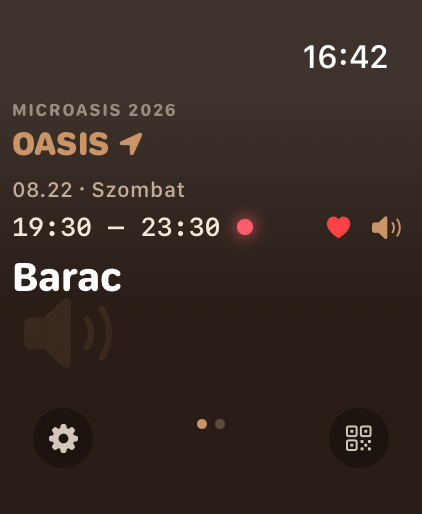
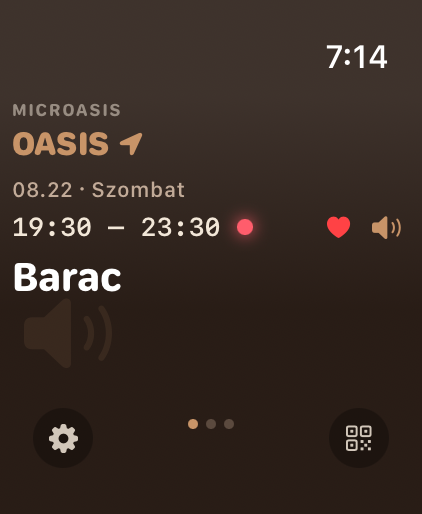
build(ios): cut 1.0.0 (2) and refresh the App Store screenshots
Build 2 carries the Yoga Terrace programme defaults, the stage-header fix
and the shortened header wordmark — none of which were in build 1.

Screenshots regenerated for both languages. Two of them were stale rather
than merely old: the widget shot pinned `wadi-maron-0822` as a favorite,
a slug that stopped existing when Maron and Route 8 swapped slots, so its
heart would have rendered empty. Added `08-timetable-terrace`, since no
store image showed the Yoga Terrace at all.

Uploaded to App Store Connect: build 2 attached to version 1.0, all 50
screenshots COMPLETE across the 6.9"/6.5"/watch slots in HU and EN,
TestFlight release notes set. The version sits at READY_FOR_REVIEW and is
deliberately NOT submitted.

Changed region(s): [[0.7085, 0.0623, 0.9242, 0.1556], [0.3081, 0.1868, 0.4313, 0.249], [0.4313, 0.8093, 0.5545, 0.8405]]

diff --git a/apple/STORE_LISTING.md b/apple/STORE_LISTING.md
@@ -33,6 +33,35 @@ this API version, and it must show **Published**, not just filled in.
 
 The watch slot `APP_WATCH_ULTRA` does accept the Ultra 3's 422×514 captures.
 
+## Replacing assets on a version that is already READY_FOR_REVIEW
+
+A version sitting in `READY_FOR_REVIEW` is **frozen**: creating or deleting a
+screenshot returns `409 STATE_ERROR — "Can't Create Screenshot while Ready For
+Review appScreenshots"`. The freeze comes from the open review submission, not
+from the version itself. To edit:
+
+1. `DELETE /v1/reviewSubmissionItems/<itemId>` — the version drops back to
+   `PREPARE_FOR_SUBMISSION` and its assets unfreeze. (The failed deletes are
+   safe: a 409 changes nothing, so the old screenshots survive.)
+2. Swap the assets, attach the new build.
+3. `POST /v1/reviewSubmissionItems` with the same `reviewSubmission` +
+   `appStoreVersion` relationships — the version returns to `READY_FOR_REVIEW`,
+   one button away from submission.
+
+`reviewSubmissions` themselves allow only CREATE/GET/UPDATE — **there is no
+DELETE**, so an empty submission created by mistake cannot be cleaned up. It is
+harmless with zero items, but don't create spares.
+
+Two more API quirks around a new build:
+
+- `betaBuildLocalizations` already exist for a freshly processed build — POST
+  returns `409 "There is an entity with same 'locale'"`. **PATCH** them instead.
+- Adding a build to an **internal** TestFlight group returns `422 "Cannot add
+  internal group to a build"`: internal groups receive every build automatically.
+- The age rating lives at `/v1/appInfos/<appInfoId>/ageRatingDeclaration` —
+  `/v1/apps/<id>/ageRatingDeclaration` does **not** exist, so a check against it
+  reports a false "missing".
+
 ## URLs
 - **Privacy Policy URL:** https://microasis.torma.ai/privacy
 - **Support URL:** https://microasis.torma.ai/support

diff --git a/apple/CLAUDE.md b/apple/CLAUDE.md
@@ -98,13 +98,15 @@ disclaimer with `-microasis.disclaimerSeen 1`.
   the QA `microasis.debugNow` clock (DEBUG/TestFlight only), and — same group
   container — **one schedule disk cache** (the widget reuses the app's fetch).
 - **Versioning** (`project.yml`): `MARKETING_VERSION` (semver, currently `1.0.0`)
-  bumped per release; `CURRENT_PROJECT_VERSION` (integer, currently `1`) bumped per
+  bumped per release; `CURRENT_PROJECT_VERSION` (integer, currently `2`) bumped per
   TestFlight upload. Both flow into Info.plist via `$(…)` substitution — never hardcode them in a
   plist or the bump won't reach the binary.
 - **Bundle IDs:** `ai.torma.microasis.2026` (iOS) · `.widget` (iOS widget) ·
   `.watchkitapp` (watch) · `.watchkitapp.widget` (watch widget). Team `5HW26FBLH4`,
   deployment targets iOS 17 / watchOS 10.
-- **App Store:** record created, not yet submitted for review. Apple ID
+- **App Store:** `1.0` is staged and `READY_FOR_REVIEW` with build `1.0.0 (2)`
+  attached — everything filled in, deliberately **not** submitted (that button is
+  the developer's to press). Apple ID
   `6800753437` (`Guide for MicrOasis 2026`, SKU `microasis2026`). The id lives in
   two mirrored places: `AppLinks.appStore` and the web's `APP_STORE_URL`.
 - **Commits** follow the repo-wide Conventional Commits with scope (`feat(watch):`,
